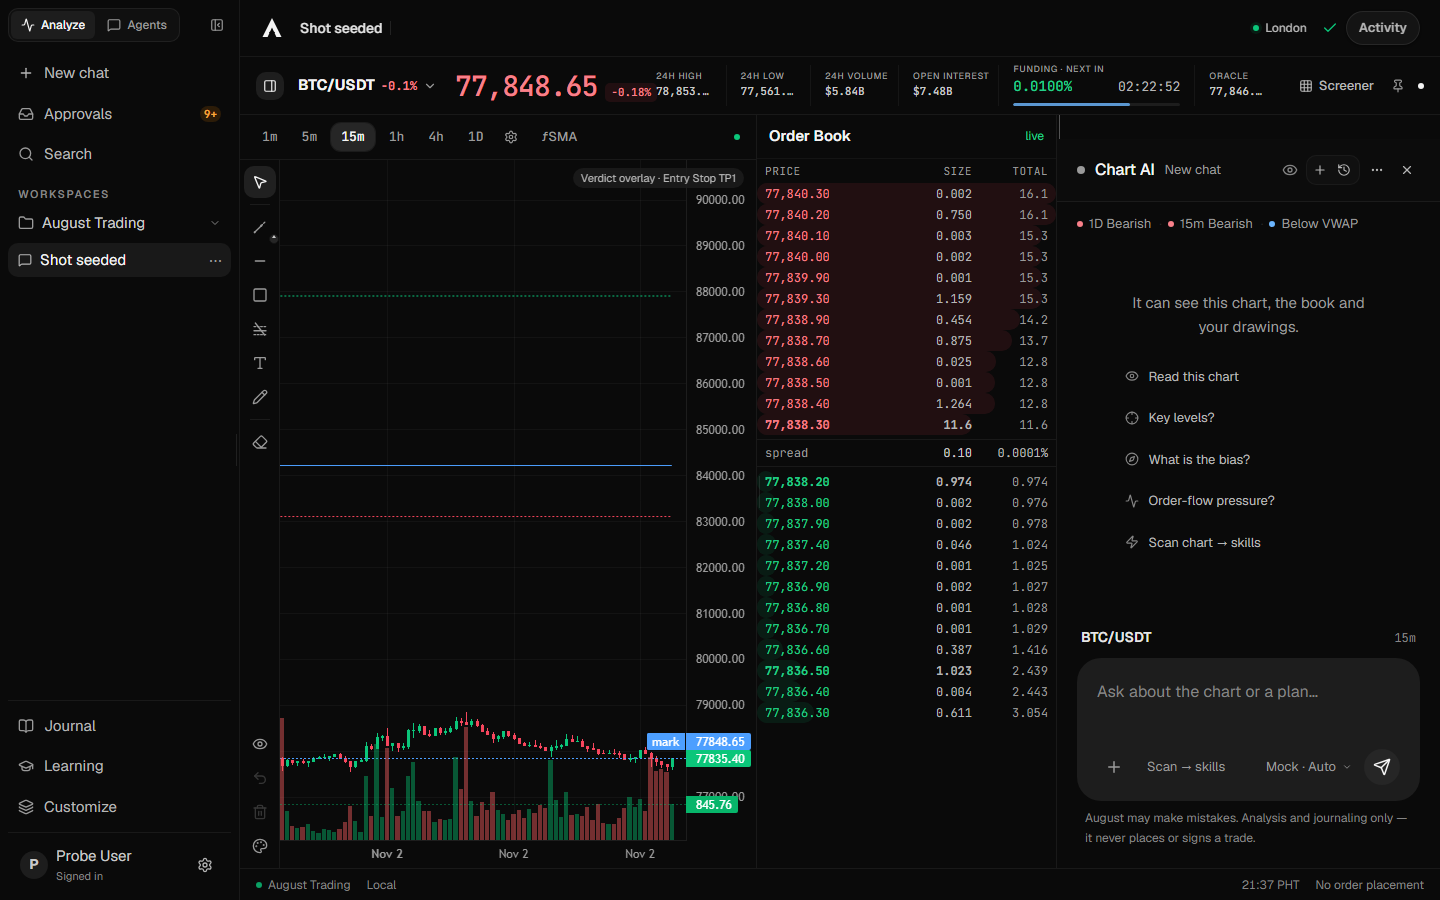
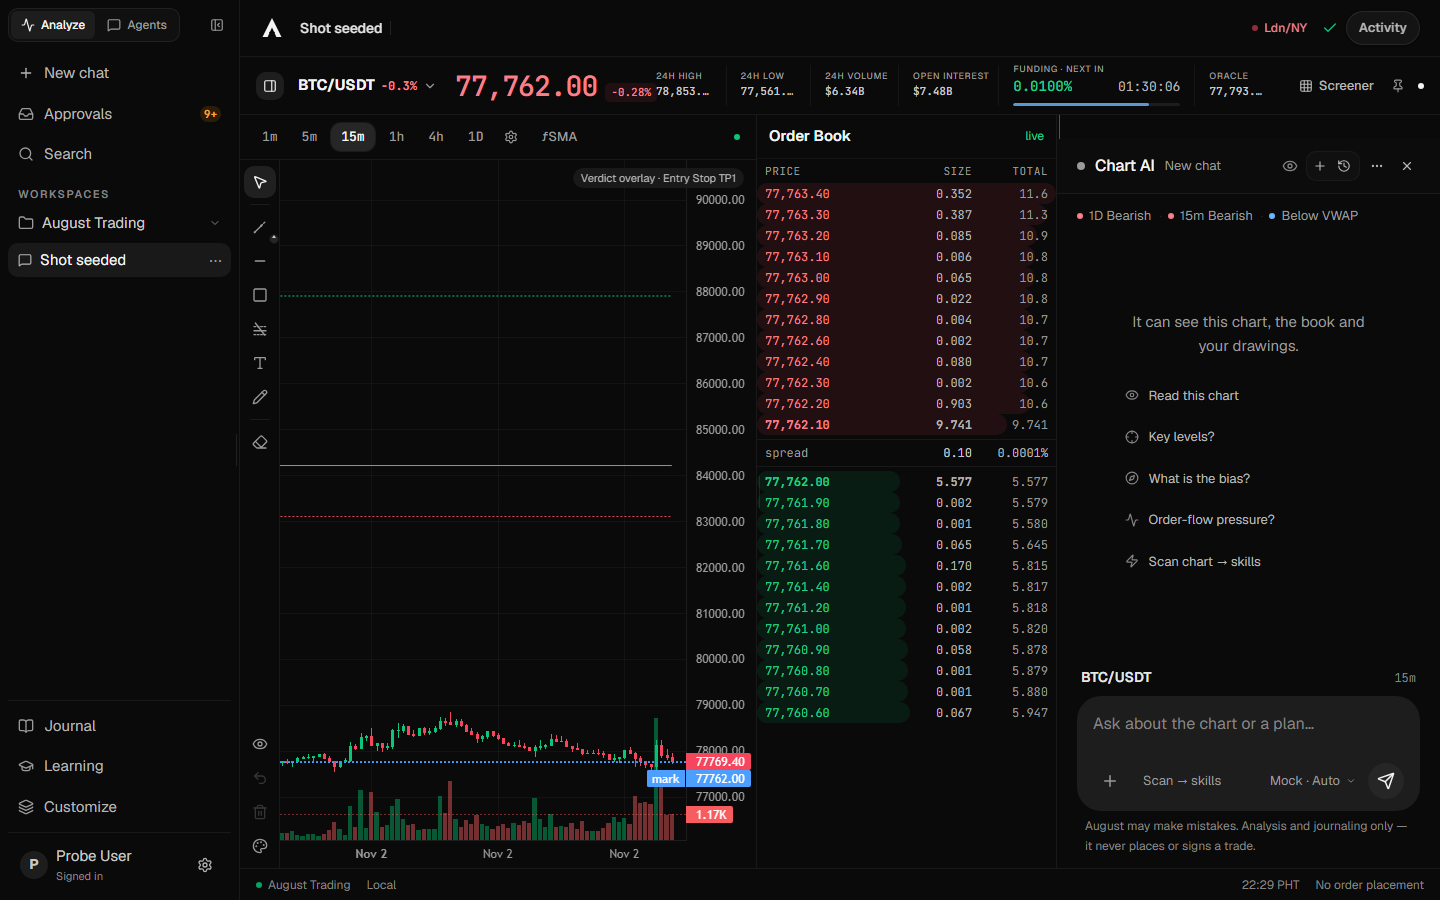
feat(dock): size the composer to its draft
A one-line question sat in a two-line empty field inside a 143px card, so
the composer read as a panel rather than an input. The field now rests at
one line and grows with the draft to a ceiling; padding, the action row and
the disclaimer are tighter, and the dock header loses a density step. The
probe measures the resting height, the growth and the return, not just
that an input exists.

diff --git a/src/components/trade/panels/ChatComposer.tsx b/src/components/trade/panels/ChatComposer.tsx
@@ -11,7 +11,7 @@
  * Stop while a run is live.
  */
 
-import React from 'react';
+import React, { useLayoutEffect } from 'react';
 import {Camera, FileText, Plus, TriangleAlert, SendIcon, StopIcon} from '../../shared/Icons';
 import type { ProviderConfig } from '../../../types/provider';
 import type { Attachment } from '../../../hooks/useChatAttachments';
@@ -112,6 +112,18 @@ const ChatComposer: React.FC<ChatComposerProps> = ({
     attachFiles, showAttachMenu, setShowAttachMenu, captureChart, onCaptureChart, composerRef,
     panelCount, pickerOpen, onTogglePicker, botName, contextAt,
 }) => {
+    // The field is one line at rest and grows with the draft, up to a ceiling;
+    // a fixed `min-h-[56px]` gave a one-line "what about now?" two lines of
+    // empty card, which is most of what made the composer read as a panel.
+    // `rows={1}` stays the SSR/first-paint height; this only replaces it after
+    // a real measurement. The inline height is inert while the dock is hidden.
+    useLayoutEffect(() => {
+        const el = composerRef.current;
+        if (!el) return;
+        el.style.height = 'auto';
+        el.style.height = `${Math.min(Math.max(el.scrollHeight, 40), 160)}px`;
+    }, [draft, composerRef]);
+
     // One shared ModelChip (components/shared/ModelChip.tsx), which is now also
     // the effort dial: the tier rides the trigger's label and is edited on the
     // slider in the same panel, so the Agents surface and this dock cannot end up
@@ -122,7 +134,7 @@ const ChatComposer: React.FC<ChatComposerProps> = ({
     // now sit on the dock's own panel, and the card's frame is the only boundary
     // in the area — which is the point of the card existing at all.
     return (
-    <div className="shrink-0 px-5 pb-5 pt-3">
+    <div className="shrink-0 px-5 pb-3 pt-2">
         <ModelFallbackBanner modelIssue={modelIssue} provider={provider} />
         <ComposerWorkspaceRow
             symbol={symbol}
@@ -144,7 +156,7 @@ const ChatComposer: React.FC<ChatComposerProps> = ({
             (attachments), and the controls that send it. Market context — the
             coin and the timeframe — does not live in here; on the Agents surface
             they sit on their own row outside the card (see AgentsView). */}
-        <div className="rounded-composer bg-surface-raised px-5 py-4 ring-1 ring-transparent transition-[background-color,box-shadow] duration-150 ease-[var(--ease-snappy)] focus-within:bg-zinc-800/80 focus-within:ring-zinc-700">
+        <div className="rounded-composer bg-surface-raised px-4 py-3 ring-1 ring-transparent transition-[background-color,box-shadow] duration-150 ease-[var(--ease-snappy)] focus-within:bg-zinc-800/80 focus-within:ring-zinc-700">
             <textarea
                 ref={composerRef}
                 data-testid="composer-input"
@@ -156,9 +168,9 @@ const ChatComposer: React.FC<ChatComposerProps> = ({
                     if (ev.key === 'Enter' && !ev.shiftKey) { ev.preventDefault(); void send(draft); }
                 }}
                 placeholder={ready ? 'Ask about the chart or a plan…' : isPanel ? 'Add at least 2 panel models above' : 'Configure a provider in Settings first'}
-                className="max-h-32 min-h-[56px] w-full resize-none bg-transparent py-1 text-ui-base leading-7 text-zinc-100 placeholder:text-zinc-600 disabled:opacity-50"
+                className="max-h-40 min-h-[40px] w-full resize-none overflow-y-auto bg-transparent py-0.5 text-ui-base leading-7 text-zinc-100 placeholder:text-zinc-600 disabled:opacity-50"
             />
-            <div className="mt-3 flex flex-wrap items-center gap-2">
+            <div className="mt-2 flex flex-wrap items-center gap-2">
                 {/* `flex-wrap` + nowrap chips: the toolbar was ALWAYS over-
                     tight at the dock's 384px default — before, that showed up
                     as a chip breaking across two lines ("Scan —/skills"), and
@@ -245,7 +257,7 @@ const ChatComposer: React.FC<ChatComposerProps> = ({
         </div>
         {/* The footer row that used to hold the two chips is deleted with them;
             the disclaimer keeps its own line under the card. */}
-        <p className="mt-2 px-2 text-ui-xs leading-relaxed text-zinc-600">
+        <p className="mt-1.5 px-2 text-ui-xs leading-relaxed text-zinc-600">
             {DISCLAIMER_SHORT}
         </p>
     </div>

diff --git a/src/components/trade/TradeChatPanel.tsx b/src/components/trade/TradeChatPanel.tsx
@@ -998,7 +998,7 @@ const TradeChatPanel: React.FC<TradeChatPanelProps> = ({
                 + / history / ⋯ / × right, nothing else. Conversations are
                 reached through the Past Conversations palette, not a tab
                 strip. */}
-            <div className="@container flex shrink-0 items-center gap-2.5 border-b border-white/[0.06] bg-zinc-900/30 px-5 py-4">
+            <div className="@container flex shrink-0 items-center gap-2.5 border-b border-white/[0.06] bg-zinc-900/30 px-5 py-3">
                 <span className={`h-2 w-2 shrink-0 rounded-full ${busy ? 'animate-pulse bg-cyan-400' : live ? 'bg-emerald-500' : 'bg-zinc-500'}`} aria-label={live ? 'live market feed connected' : 'market feed polling'} />
                 {/* The dock is narrow and user-dragged, so the brand never
                     yields: at 370px a squeezed "Chart AI" wrapped into two

diff --git a/src/components/trade/panels/ComposerWorkspaceRow.tsx b/src/components/trade/panels/ComposerWorkspaceRow.tsx
@@ -31,7 +31,7 @@ export interface ComposerWorkspaceRowProps {
 const ComposerWorkspaceRow: React.FC<ComposerWorkspaceRowProps> = ({
     symbol, interval, isPanel, panelCount, pickerOpen, onTogglePicker, botName, contextAt,
 }) => (
-    <div className="flex shrink-0 items-center gap-2.5 px-1 pb-2.5 pt-1.5">
+    <div className="flex shrink-0 items-center gap-2.5 px-1 pb-2 pt-1">
         <span className="truncate text-ui-sm font-semibold text-zinc-200" title={symbolDisplay(symbol)}>{symbolDisplay(symbol)}</span>
         {isPanel && (
             <button type="button" onClick={onTogglePicker}
